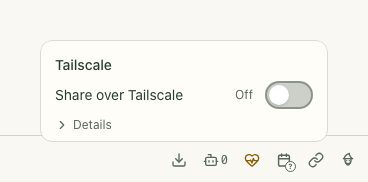
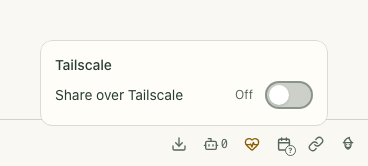
fix(tailscale): no Details that only repeat the sharing switch
The footer pane showed a Details disclosure saying "Private web sharing
is off." next to a switch that already reads Off. The pane now omits
Details when the state only restates the switch (plain Off or plain On)
and keeps them for anything to act on or wait for. The CLI and JSON
message is unchanged. Tailscale 0.9.6, gallery recaptured.

diff --git a/plugins/heinzel-tailscale/tests/unit/status_test.py b/plugins/heinzel-tailscale/tests/unit/status_test.py
@@ -385,6 +385,53 @@ def test_a_ready_pane_shows_the_url_and_no_status_line():
         assert item.toggle.problem is None
 
 
+def test_a_plain_off_pane_has_no_details_that_repeat_the_switch():
+    state = service(Settings(), FakeCli()).status()
+    assert state.state == "off"
+    assert state.message == "Private web sharing is off."  # The CLI and JSON keep the message.
+    item = sharing(state)
+    assert item.toggle.checked is False
+    assert item.toggle.requested is False
+    assert item.detail == []
+    if heinzel_tailscale._PANE_LINES:
+        assert item.toggle.status is None
+        assert item.toggle.problem is None
+        assert item.toggle.explanation is None
+
+
+def test_a_plain_on_pane_has_no_details_that_repeat_the_switch():
+    runtime = LocalWebRuntime(port=8737)
+    state = service(
+        Settings(ui_allowed_origins={MAPPING.origin}),
+        FakeCli(serve=MAPPING.enable({})),
+        owned=True,
+        web=(runtime, WebUser()),
+    ).status()
+    assert state.state == "ready"
+    assert state.message  # The CLI and JSON keep the message.
+    if heinzel_tailscale._PANE_LINES:
+        assert sharing(state).toggle.explanation is None
+
+
+@pytest.mark.parametrize(
+    "changes",
+    [
+        {"state": "blocked", "problem": True, "summary": "Check Tailscale Serve."},
+        {"state": "error", "problem": True, "summary": "Tailscale did not answer. Try again."},
+        {"state": "apply-required", "mapped": True, "summary": "Turning on…"},
+        {"desired_enabled": True, "problem": True, "summary": "Tailscale stopped sharing. Try again."},
+        {"apply_settings": {"hz.ui_allowed_origins": []}},
+        {"mapped": True},
+        {"state": "ready", "desired_enabled": False, "mapped": True},
+    ],
+)
+def test_states_to_act_on_or_wait_for_keep_details(changes):
+    if not heinzel_tailscale._PANE_LINES:
+        pytest.skip("Installed Core has no toggle explanation")
+    state = service(Settings(), FakeCli()).status().model_copy(update=changes)
+    assert sharing(state).toggle.explanation == heinzel_tailscale.shorten(state.message)
+
+
 @pytest.mark.parametrize(
     "serve",
     [

diff --git a/plugins/heinzel-tailscale/src/heinzel_tailscale/__init__.py b/plugins/heinzel-tailscale/src/heinzel_tailscale/__init__.py
@@ -70,18 +70,28 @@ def shorten(text: str, limit: int = _DETAILS) -> str:
     return words + (" …" if words.endswith((".", "!", "?")) else "…")
 
 
+def restates_switch(state: SharingState) -> bool:
+    """Whether the state only repeats the switch: plain Off or plain On, nothing to act on or wait for."""
+    if state.problem or state.summary is not None or state.apply_settings:
+        return False
+    plain_off = state.state == "off" and not state.desired_enabled and not state.mapped
+    plain_on = state.state == "ready" and state.desired_enabled
+    return plain_off or plain_on
+
+
 @module.status(source="status", slots={"footer": True, "sidebar": False})
 def sharing(state: SharingState) -> StatusItem:
     """A compact provider-owned status icon with the same explicit control as Settings.
 
     The switch shows the person's choice (`requested`); `checked` says it is live. One short line says what is going
-    on, and the full message is only the Details text.
+    on, and the full message is only the Details text. Plain Off or On has no Details: the switch already says it.
     """
     ready = state.state == "ready"
     # A cause the person must fix gets Try again only once they asked for sharing; before that the switch is the way.
     problem = state.summary if state.problem and state.desired_enabled else None
     status = None if problem else state.summary
-    lines = {"status": status, "problem": problem, "explanation": shorten(state.message)} if _PANE_LINES else {}
+    explanation = None if restates_switch(state) else shorten(state.message)
+    lines = {"status": status, "problem": problem, "explanation": explanation} if _PANE_LINES else {}
     return StatusItem(
         text="Tailscale",
         icon="link",

diff --git a/plugins/heinzel-tailscale/docs/SCREENSHOT_STORY.md b/plugins/heinzel-tailscale/docs/SCREENSHOT_STORY.md
@@ -10,7 +10,7 @@ Show the owner turning sharing on, what the plugin's own status command reports,
 
 1. **Sharing ready — dark UI.** In the genuine footer Tailscale control, turn on **Share over Tailscale** and wait for the **Open** link. On Core 0.9.40 the control offers **Copy link** and **Open**.
 2. **Requested sharing — CLI.** `hz tailscale status --json` right after scene 1. It shows the saved request and the mapping to the web app's backend port. It reports `apply-required` with the summary *Turning on…*: a separate CLI process has no web runtime, so it cannot verify the web listener and only the web app finishes the transition (`src/heinzel_tailscale/_service.py`, `Sharing._mapping` comment and `Sharing._state`). This is the plugin's real behaviour and must be shown as is.
-3. **Sharing off — light UI.** In the same control, turn sharing off and wait for the switch to read *Off*.
+3. **Sharing off — light UI.** In the same control, turn sharing off and wait for the switch to read *Off*. Plain Off shows no status line and no Details: the switch already says it (`src/heinzel_tailscale/__init__.py`, `restates_switch`). Details appear only for something to act on or wait for.
 4. **After switching off — CLI.** `hz tailscale status --json` right after scene 3: state `off`, not mapped. The target now shows the configured hz web port, default 8737 (Core `Settings.ui_port`), because without an enabled intent there is no backend port to keep (`Sharing._mapping`: `self.readiness.runtime.port or (old.backend_port if old and old.enabled else self.settings.ui_port)`). The port difference between scenes 2 and 4 is therefore expected, not a sign of a different fixture.
 
 ## Capture lifecycle (verified against the capture tool source)
@@ -27,7 +27,7 @@ Normal presentation fictionalization is explicitly limited to verified owning-in
 
 ## Acceptance criteria
 
-- The dark image shows the genuine Tailscale control On with Open; the light image shows the same control Off. Both appearances are applied.
+- The dark image shows the genuine Tailscale control On with Open; the light image shows the same control Off with no Details. Both appearances are applied.
 - Both CLI transcripts are genuine output of the declared status operation in the shared capture state. Scene 2 shows `apply-required` / *Turning on…* (the CLI cannot see the web listener); scene 4 shows `off` with the default port. Captions must state these limits truthfully and must not claim the CLI proves web readiness.
 - No duplicate captures, caption-only differences, forged HTML, invented screens, unknown identities, real credentials, or unreviewed images or transcripts.
 - Each image and transcript is reviewed independently, including the Doctor-row and interpreter-path substitutions.

diff --git a/plugins/heinzel-tailscale/docs/assets/screenshots/source-story.md b/plugins/heinzel-tailscale/docs/assets/screenshots/source-story.md
@@ -10,7 +10,7 @@ Show the owner turning sharing on, what the plugin's own status command reports,
 
 1. **Sharing ready — dark UI.** In the genuine footer Tailscale control, turn on **Share over Tailscale** and wait for the **Open** link. On Core 0.9.40 the control offers **Copy link** and **Open**.
 2. **Requested sharing — CLI.** `hz tailscale status --json` right after scene 1. It shows the saved request and the mapping to the web app's backend port. It reports `apply-required` with the summary *Turning on…*: a separate CLI process has no web runtime, so it cannot verify the web listener and only the web app finishes the transition (`src/heinzel_tailscale/_service.py`, `Sharing._mapping` comment and `Sharing._state`). This is the plugin's real behaviour and must be shown as is.
-3. **Sharing off — light UI.** In the same control, turn sharing off and wait for the switch to read *Off*.
+3. **Sharing off — light UI.** In the same control, turn sharing off and wait for the switch to read *Off*. Plain Off shows no status line and no Details: the switch already says it (`src/heinzel_tailscale/__init__.py`, `restates_switch`). Details appear only for something to act on or wait for.
 4. **After switching off — CLI.** `hz tailscale status --json` right after scene 3: state `off`, not mapped. The target now shows the configured hz web port, default 8737 (Core `Settings.ui_port`), because without an enabled intent there is no backend port to keep (`Sharing._mapping`: `self.readiness.runtime.port or (old.backend_port if old and old.enabled else self.settings.ui_port)`). The port difference between scenes 2 and 4 is therefore expected, not a sign of a different fixture.
 
 ## Capture lifecycle (verified against the capture tool source)
@@ -27,7 +27,7 @@ Normal presentation fictionalization is explicitly limited to verified owning-in
 
 ## Acceptance criteria
 
-- The dark image shows the genuine Tailscale control On with Open; the light image shows the same control Off. Both appearances are applied.
+- The dark image shows the genuine Tailscale control On with Open; the light image shows the same control Off with no Details. Both appearances are applied.
 - Both CLI transcripts are genuine output of the declared status operation in the shared capture state. Scene 2 shows `apply-required` / *Turning on…* (the CLI cannot see the web listener); scene 4 shows `off` with the default port. Captions must state these limits truthfully and must not claim the CLI proves web readiness.
 - No duplicate captures, caption-only differences, forged HTML, invented screens, unknown identities, real credentials, or unreviewed images or transcripts.
 - Each image and transcript is reviewed independently, including the Doctor-row and interpreter-path substitutions.

diff --git a/plugins/heinzel-tailscale/CHANGELOG.md b/plugins/heinzel-tailscale/CHANGELOG.md
@@ -1,5 +1,10 @@
 # Changelog
 
+## 0.9.6
+
+The footer pane no longer has a Details line that only repeats the switch (*Private web sharing is off.*);
+Details stay for anything to act on or wait for. The CLI and JSON message is unchanged.
+
 ## 0.9.5
 
 Relock for Heinzel Core 0.9.40 (its AI extra adds pyjwt) and refresh the gallery.
